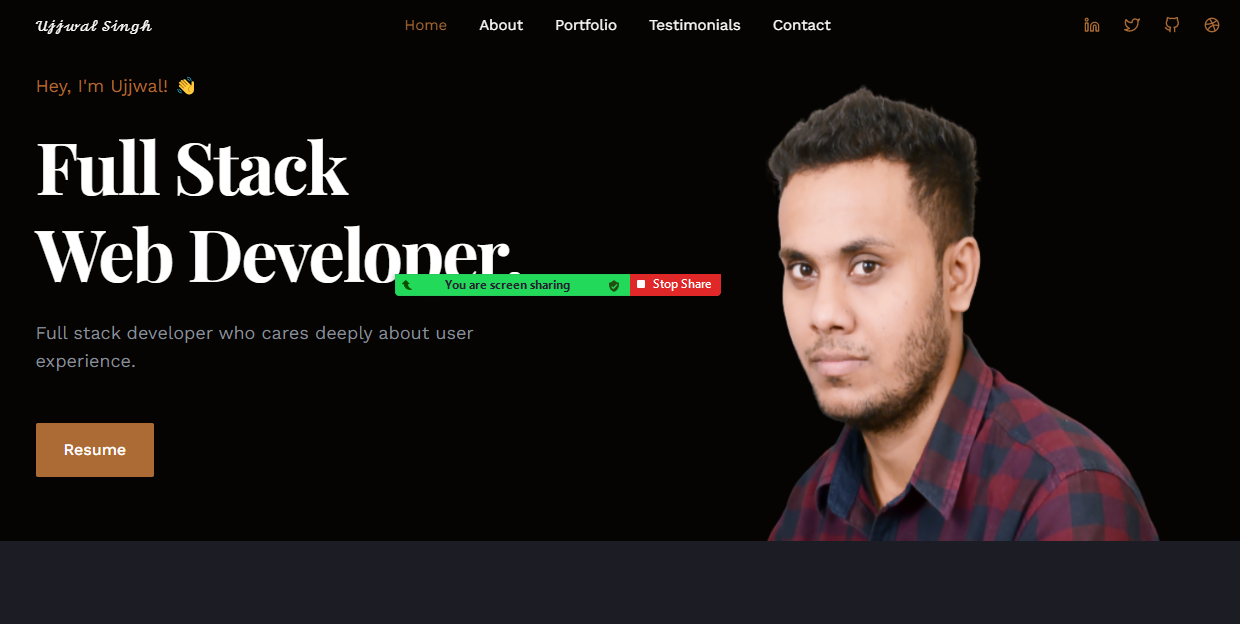
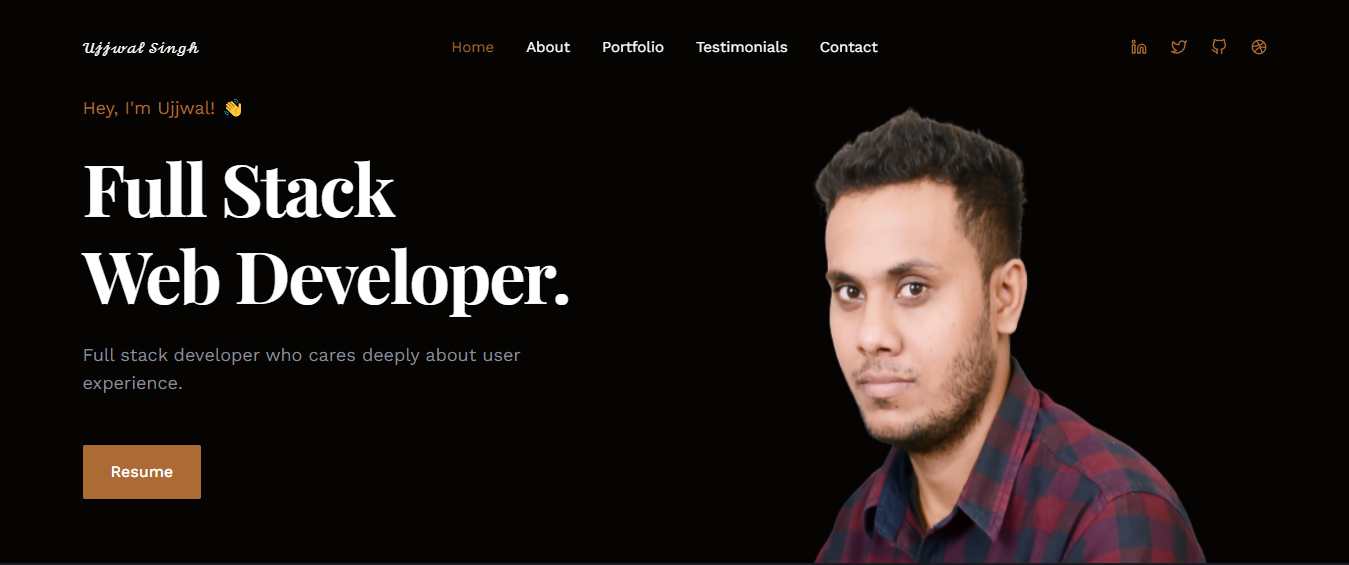
portfolio

diff --git a/src/data.js b/src/data.js
@@ -22,12 +22,12 @@ import BehanceBrandIcon from './assets/img/brands/behance.png';
 import DribbbleBrandIcon from './assets/img/brands/dribbble.png';
 
 // projects images
-import Project1 from './assets/img/projects/p1.webp';
-import Project2 from './assets/img/projects/p2.webp';
-import Project3 from './assets/img/projects/p3.webp';
-import Project4 from './assets/img/projects/p4.webp';
-import Project5 from './assets/img/projects/p5.webp';
-import Project6 from './assets/img/projects/p6.webp';
+import Project1 from './assets/img/projects/OLX.png';
+import Project2 from './assets/img/projects/OLX2.png';
+import Project3 from './assets/img/projects/TATA.png';
+import Project4 from './assets/img/projects/TATABODY.png';
+import Project5 from './assets/img/projects/MOVIE.png';
+import Project6 from './assets/img/projects/MOVIE2.png';
 
 // skills images
 import SkillImg1 from './assets/img/skills/html5.png';
@@ -121,37 +121,38 @@ export const projectsData = [
   {
     id: '1',
     image: Project1,
-    name: 'project name 1',
+    name: 'OLX',
     category: 'UI/UX design',
+  
   },
   {
     id: '2',
     image: Project2,
-    name: 'project name 2',
+    name: 'OLX',
     category: 'web development',
   },
   {
     id: '3',
     image: Project3,
-    name: 'project name 3',
+    name: 'TATA1mg',
     category: 'UI/UX design',
   },
   {
     id: '4',
     image: Project4,
-    name: 'project name 4',
+    name: 'TATA1mg',
     category: 'branding',
   },
   {
     id: '5',
     image: Project5,
-    name: 'project name 5',
+    name: 'MOVIE_APP',
     category: 'web development',
   },
   {
     id: '6',
     image: Project6,
-    name: 'project name 6',
+    name: 'MOVIE_APP',
     category: 'web development',
   },
 ];

diff --git a/src/components/Stats.js b/src/components/Stats.js
@@ -5,8 +5,8 @@ const Stats = () => {
   return (
     // streak
     
-    <div style={{  height: "15rem" }}>
-         <h1 style={{color:"black", margin:"auto",textAlign:"center", fontFamily:"Arial, Helvetica, sans-serif ", padding:"10px"}}>GitHub Statistics</h1>
+    <div style={{  height: "15rem"}}>
+         <h1 style={{color:"black", margin:"auto",textAlign:"center", fontFamily:"Arial, Helvetica, sans-serif ", padding:"10px",fontSize:"2rem" }}>GitHub Statistics</h1>
       {/*   <div style={{ width: "40%", margin: "auto"}}>
         <a href="https://github.com/ujjwalsingh13feb">
          <img
@@ -24,6 +24,10 @@ const Stats = () => {
           display: "flex",
           flexDirection: "row",
           margin: "auto",
+          boxShadow:"rgba(0, 0, 0, 0.24) 0px 3px 8px",
+          padding:"1rem",
+          borderRadius:"1rem"
+
         }}
       >
         <a href="https://github.com/ujjwalsingh13feb">

diff --git a/src/components/Project.js b/src/components/Project.js
@@ -1,18 +1,23 @@
-import React from 'react';
+import React, { useEffect, useState } from 'react';
 
 const Project = ({ item }) => {
+
   return (
-    <div key={item.id} className='flex flex-col items-center text-center'>
+    <div className='flex flex-col items-center text-center'>
       <div className='mb-8'>
         <img className='rounded-2xl' src={item.image} alt='' />
       </div>
       <p className='capitalize text-accent text-sm mb-3'>{item.category}</p>
       <h3 className='text-2xl font-semibold capitalize mb-3'>{item.name}</h3>
-      <p className='text-base max-w-md'>
+      <div  key={item.id}>
+      <p className='text-base max-w-md' key={"1"}>
         Lorem ipsum dolor sit amet, consectetur adipisicing elit veniam
-        obcaecati ipsam.
+        obcaecati ipsam.ujjwal usj;lds
       </p>
-    </div>
+      </div>
+      
+    </div>  
+  
   );
 };
 

diff --git a/src/components/Calender.js b/src/components/Calender.js
@@ -20,9 +20,9 @@ const Calender = () => {
   };
   return (
     <div >
-    <h1 style={{color:"black", margin:"auto",textAlign:"center", fontFamily:"Arial, Helvetica, sans-serif ", padding:"10px"}}>GitHub Calender</h1>
+    <h1 style={{color:"black", margin:"auto",textAlign:"center", fontFamily:"Arial, Helvetica, sans-serif ", padding:"15px",fontSize:"2rem"}}>GitHub Calender</h1>
       <GitHubCalendar
-        style={{ margin: "auto", marginBottom:"50px"}}
+        style={{ margin: "auto", marginBottom:"50px",boxShadow:"rgba(0, 0, 0, 0.24) 0px 3px 8px",padding:"2rem",borderRadius:"1rem"}}
         username="ujjwalsingh13feb"
         transformData={selectLastHalfYear}
         blockSize={20}

diff --git a/src/components/Portfolio.js b/src/components/Portfolio.js
@@ -12,8 +12,8 @@ const Portfolio = () => {
             My latest work
           </h2>
           <p className='subtitle'>
-            Lorem ipsum dolor sit amet consectetur adipisicing elit. Fuga veniam
-            labore nisium illum cupiditate reiciendis a numquam
+            {/* Lorem ipsum dolor sit amet consectetur adipisicing elit. Fuga veniam
+            labore nisium illum cupiditate reiciendis a numquam */}
           </p>
         </div>
         <Projects />

diff --git a/src/components/Header.js b/src/components/Header.js
@@ -25,7 +25,7 @@ const Header = () => {
       <div className='container mx-auto h-full flex items-center justify-between'>
         {/* logo */}
         <a href='#'>
-        <h1>𝒰𝒿𝒿𝓌𝒶𝓁 𝒮𝒾𝓃𝑔𝒽</h1>
+        <h1 style={{fontSize:"2rem"}}>𝒰𝒿𝒿𝓌𝒶𝓁 𝒮𝒾𝓃𝑔𝒽</h1>
         </a>
         {/* nav */}
         <div className='hidden lg:block'>
